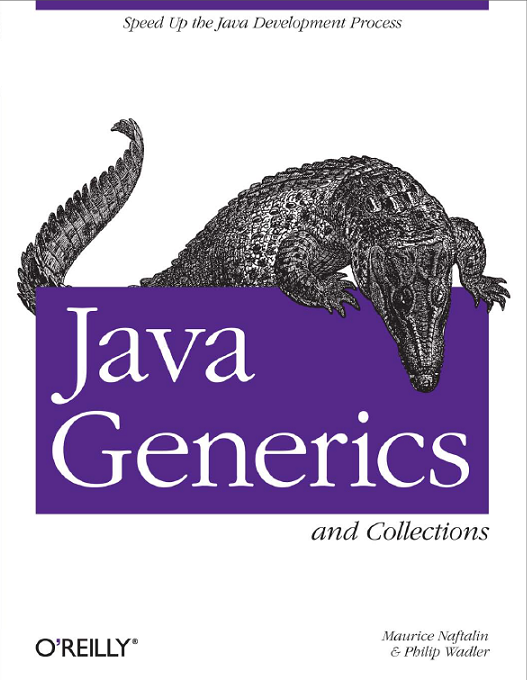
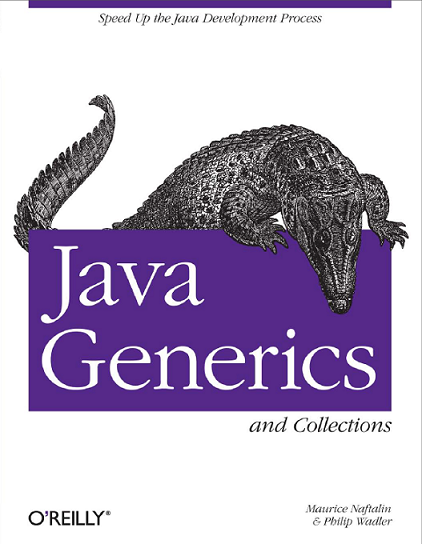
Resize images

diff --git a/04-collections-and-generics/lecture/PITCHME.md b/04-collections-and-generics/lecture/PITCHME.md
@@ -860,14 +860,13 @@ public static void draw(Shape shape) { /* ... */ }
 
 - Представлява името на шаблонен клас или интерфейс без аргументите за тип
 
-- Raw type на `Box<T>` е `Box`
-
-- Можем да създадем инстанция по следния начин
+- Raw type на `Box<T>` е `Box`. Можем да създадем инстанция по следния начин
+	
 ```java
 Box rawBox = new Box();
 ```
 
-- Отнемат възможността на компилатора да открива грешки по време на компилация
+- Отнемат възможността на компилатора да открива грешки
 
 - Оставени са по backward compatibility причини. Избягвайте ги
 
